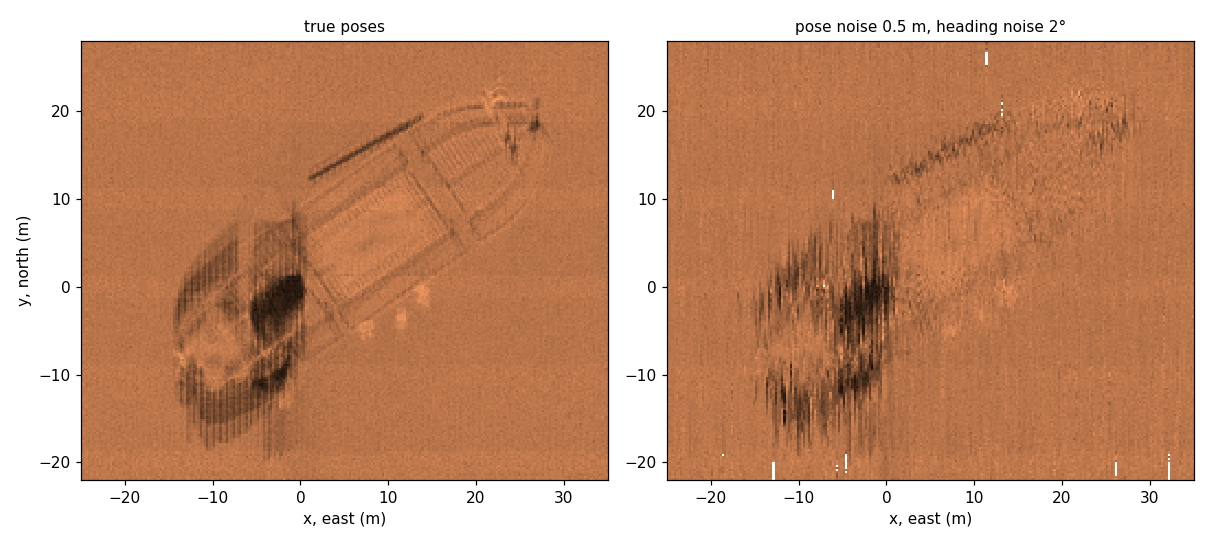
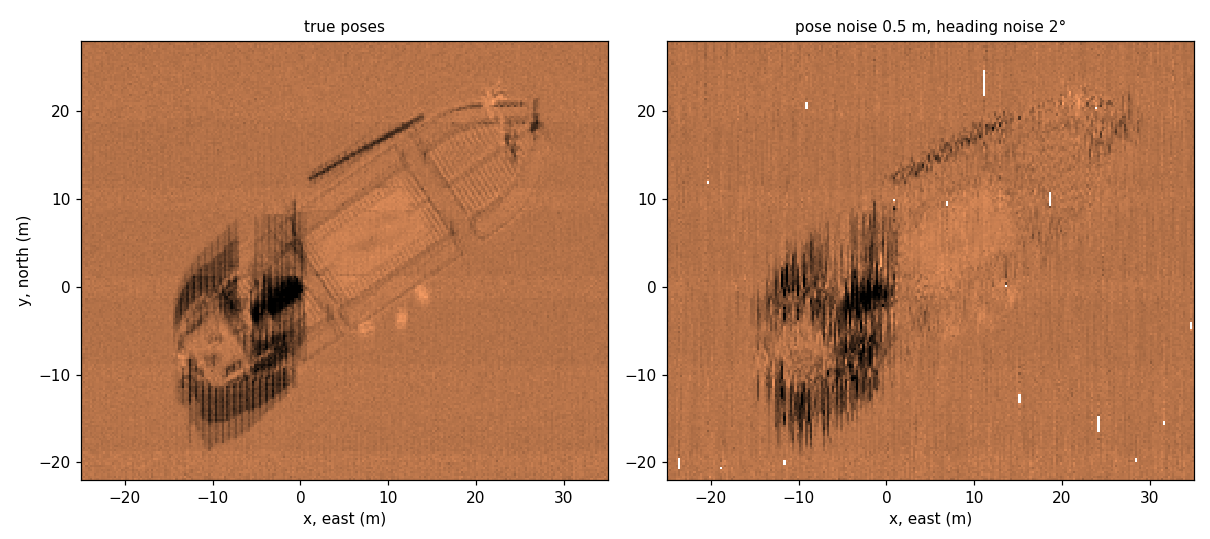
Survey how-to, part 2: the shipwreck survey rerun at 20 degrees
The BlueBoat's sidescan now looks 20 degrees down, as Cerulean
recommends (bluerobotics_models#104); the part 2 mosaic, soundings and
pass animation were made at 15 degrees and before noise before the
gain, the fixed gain and the Kirchhoff specular term.

Reran the lawnmower survey against the current install and remade the
mosaics (true and 0.5 m / 2 degree poses), the point cloud and the
one-line animation. The products use the survey up to its end, as the
page says to stop the recorder; the earlier recording ran on about 290 s
after the boat stopped. So:

- The survey takes about 8 minutes of sim time (458 s under way), not
  12.5; the page said 12.5 from the length of that recording.
- 92,220 soundings (was 150,240, which included the idle pings).
- The mosaic's bottom track reads 8.52 m on open seabed (was 8.76 m;
  true 7.90 m), the lower beam edge now meeting the seabed nearer nadir.
- Against the wreck's meshes: median 0.027 m, 95 % within 0.101 m over
  the wreck (was 0.095 m); with 0.5 m / 2 degrees, 0.168 m; with 1 m /
  4 degrees, 0.264 m. The mosaic still shows the hull, hatches and
  section breaks sharp with true poses, blurred with noise.

diff --git a/docs/how-to/sonar-survey.md b/docs/how-to/sonar-survey.md
@@ -152,7 +152,7 @@ ros2 run gz_sonar survey_lawnmower.py sonar_shipwreck \
   --x0 -40 --x1 45 --y0 -30 --y1 40 --spacing 10
 ```
 
-`survey_lawnmower.py` runs eight lines along x, 10 m apart, from y = −30 to 40, holding each with a heading and cross-track controller and turning at the ends. At about 1.8 m/s the survey takes about 12.5 minutes of sim time. `record_survey.py` saves every sidescan line, every ping of soundings and the boat's pose, each with its sim time; stop it with Ctrl-C once the survey is done, and it saves what it has.
+`survey_lawnmower.py` runs eight lines along x, 10 m apart, from y = −30 to 40, holding each with a heading and cross-track controller and turning at the ends. At about 1.8 m/s the survey takes about 8 minutes of sim time. `record_survey.py` saves every sidescan line, every ping of soundings and the boat's pose, each with its sim time; stop it with Ctrl-C once the survey is done, and it saves what it has.
 
 ```{figure} images/sonar-shipwreck-pass.webp
 :alt: Animation: above, the Gazebo view of the boat crossing over the wreck; below, the port and starboard waterfalls growing as it goes, the wreck's engine house and its dark shadow scrolling down the starboard side
@@ -189,6 +189,6 @@ ros2 run gz_sonar soundings_cloud.py survey.npz cloud.ply
 ```{figure} images/sonar-shipwreck-soundings.png
 :alt: Plan view of the soundings around the wreck, colored by height: the open seabed dark at 8 m, the long low forward hull a little lighter, and the intact stern section and the mast standing up in green and yellow
 
-The soundings around the wreck, colored by height: 150,240 points for the whole survey. The forward hull stands a little above the seabed, the stern section about 2 m, and the mast highest of all.
+The soundings around the wreck, colored by height: 92,220 points for the whole survey. The forward hull stands a little above the seabed, the stern section about 2 m, and the mast highest of all.
 ```
 
